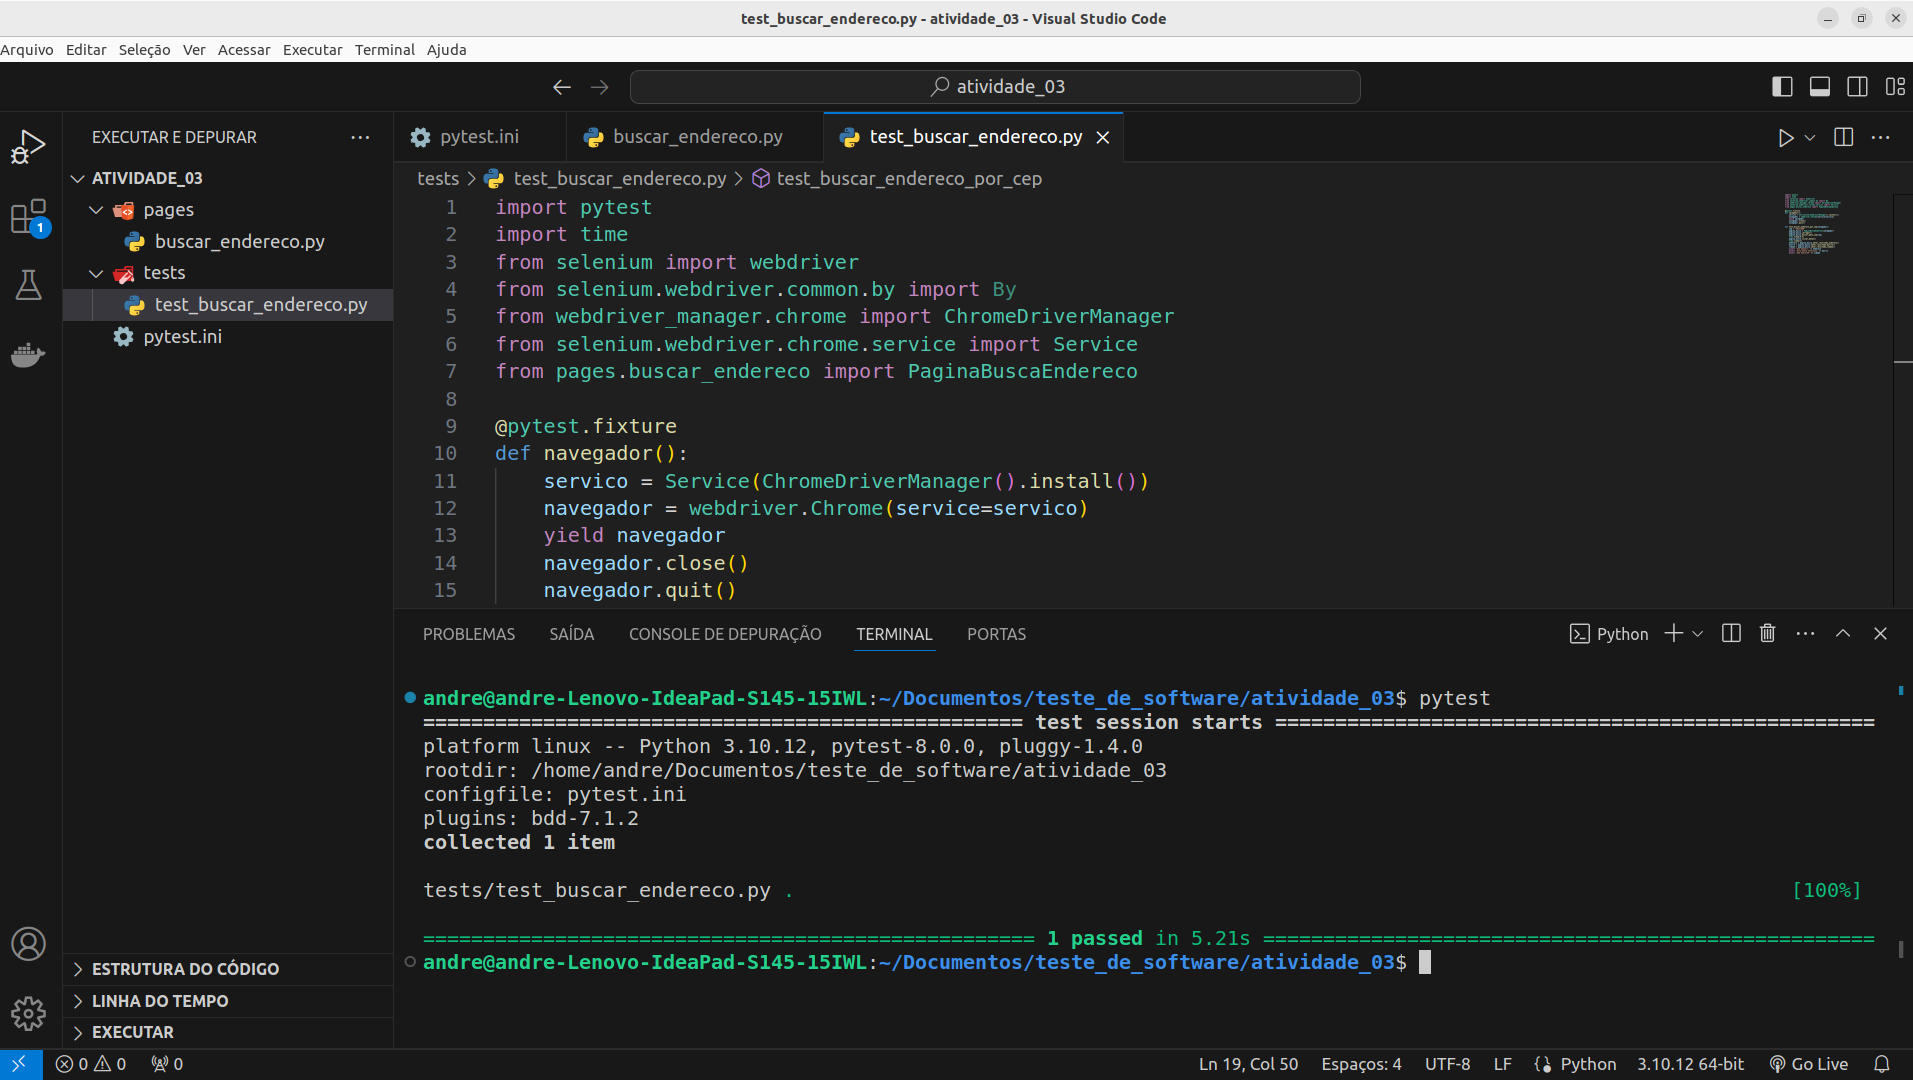
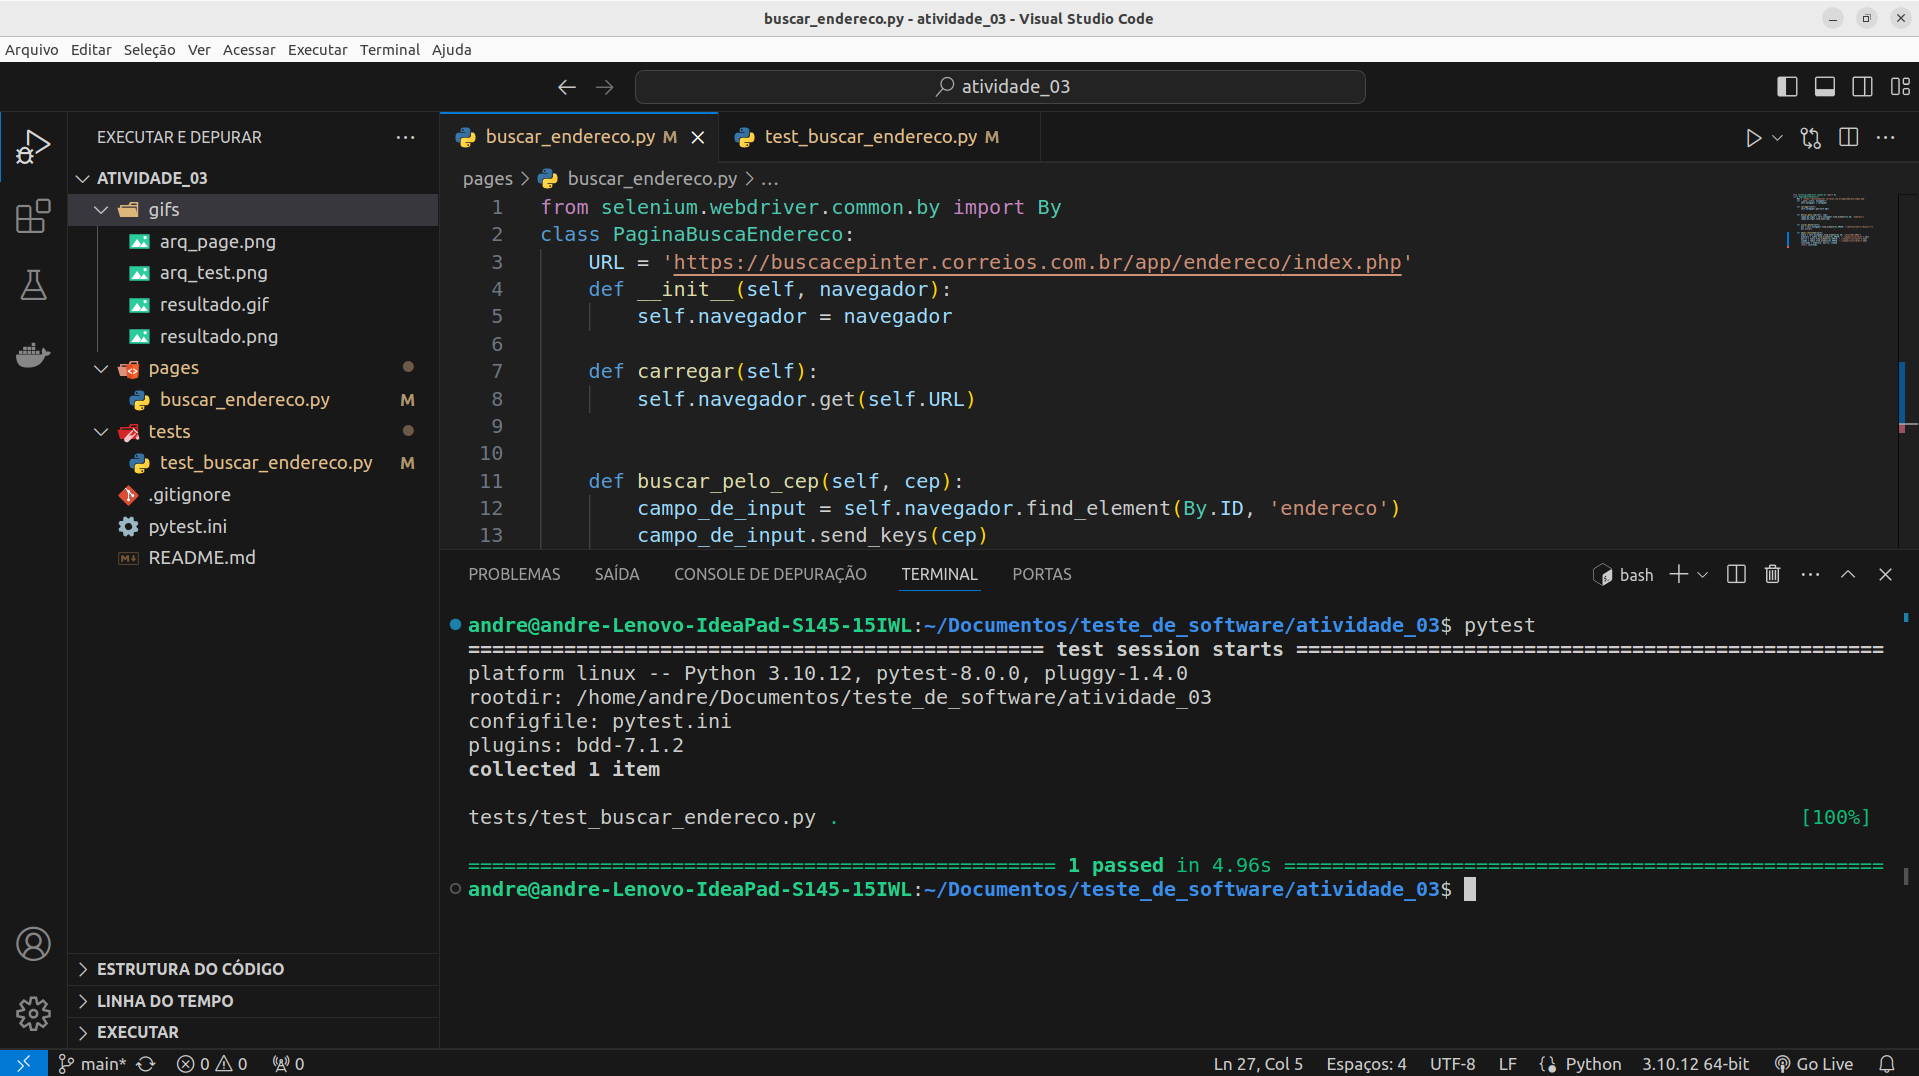
adicionando assert no teste

diff --git a/pages/buscar_endereco.py b/pages/buscar_endereco.py
@@ -17,12 +17,12 @@ class PaginaBuscaEndereco:
         btn = self.navegador.find_element(By.XPATH, "//button[text()='Buscar']")
         btn.click()
     
-    def obter_resultado_endereco(self):
-        return self.navegador.find_element(By.XPATH, ".//tbody/tr[1]/td[1]").text
+    def obter_resultado(self):
+        table = self.navegador.find_element(By.ID, "resultado-DNEC")
+        endereco = table.find_element(By.XPATH, ".//tbody/tr[1]/td[1]").text
+        bairro = table.find_element(By.XPATH, ".//tbody/tr[1]/td[2]").text
+        cidade = table.find_element(By.XPATH, ".//tbody/tr[1]/td[3]").text
+        resultado = endereco, bairro, cidade
+        return resultado
     
-    def obter_resultado_bairro(self):
-        return self.navegador.find_element(By.XPATH, ".//tbody/tr[1]/td[2]").text
-
-    def obter_resultado_cidade(self):
-        return self.navegador.find_element(By.XPATH, ".//tbody/tr[1]/td[3]").text
         

diff --git a/tests/test_buscar_endereco.py b/tests/test_buscar_endereco.py
@@ -22,9 +22,9 @@ def test_buscar_endereco_por_cep(navegador):
     time.sleep(0.5)
     pagina_busca.clicar_botao()
     time.sleep(2)
-    endereco = pagina_busca.obter_resultado_endereco()
-    bairro = pagina_busca.obter_resultado_bairro()
-    cidade = pagina_busca.obter_resultado_cidade()
-    assert 'Rua Amanari' == endereco
-    assert 'Vila Santa Teresinha' == bairro
-    assert 'São Paulo/SP' == cidade
+
+    resultado_obtido = pagina_busca.obter_resultado()
+    assert resultado_obtido[0] == 'Rua Amanari'
+    assert resultado_obtido[1] == 'Vila Santa Teresinha'
+    assert resultado_obtido[2] == 'São Paulo/SP'
+    

diff --git a/README.md b/README.md
@@ -1,12 +1,12 @@
 ### Segue evidência:
 * Gif do teste em execução.
-|![](/gifs/resultado.gif)  
+|![](/gifs/gif_resultado.gif)  
 
 * print Arquivo Page  
-|![](/gifs/arq_page.png)  
+|![](/gifs/page.png)  
 
 * Print Arquivo Test  
-|![](/gifs/arq_test.png)  
+|![](/gifs/test.png)  
 
 * Print Resultado  
 |![](/gifs/resultado.png)
